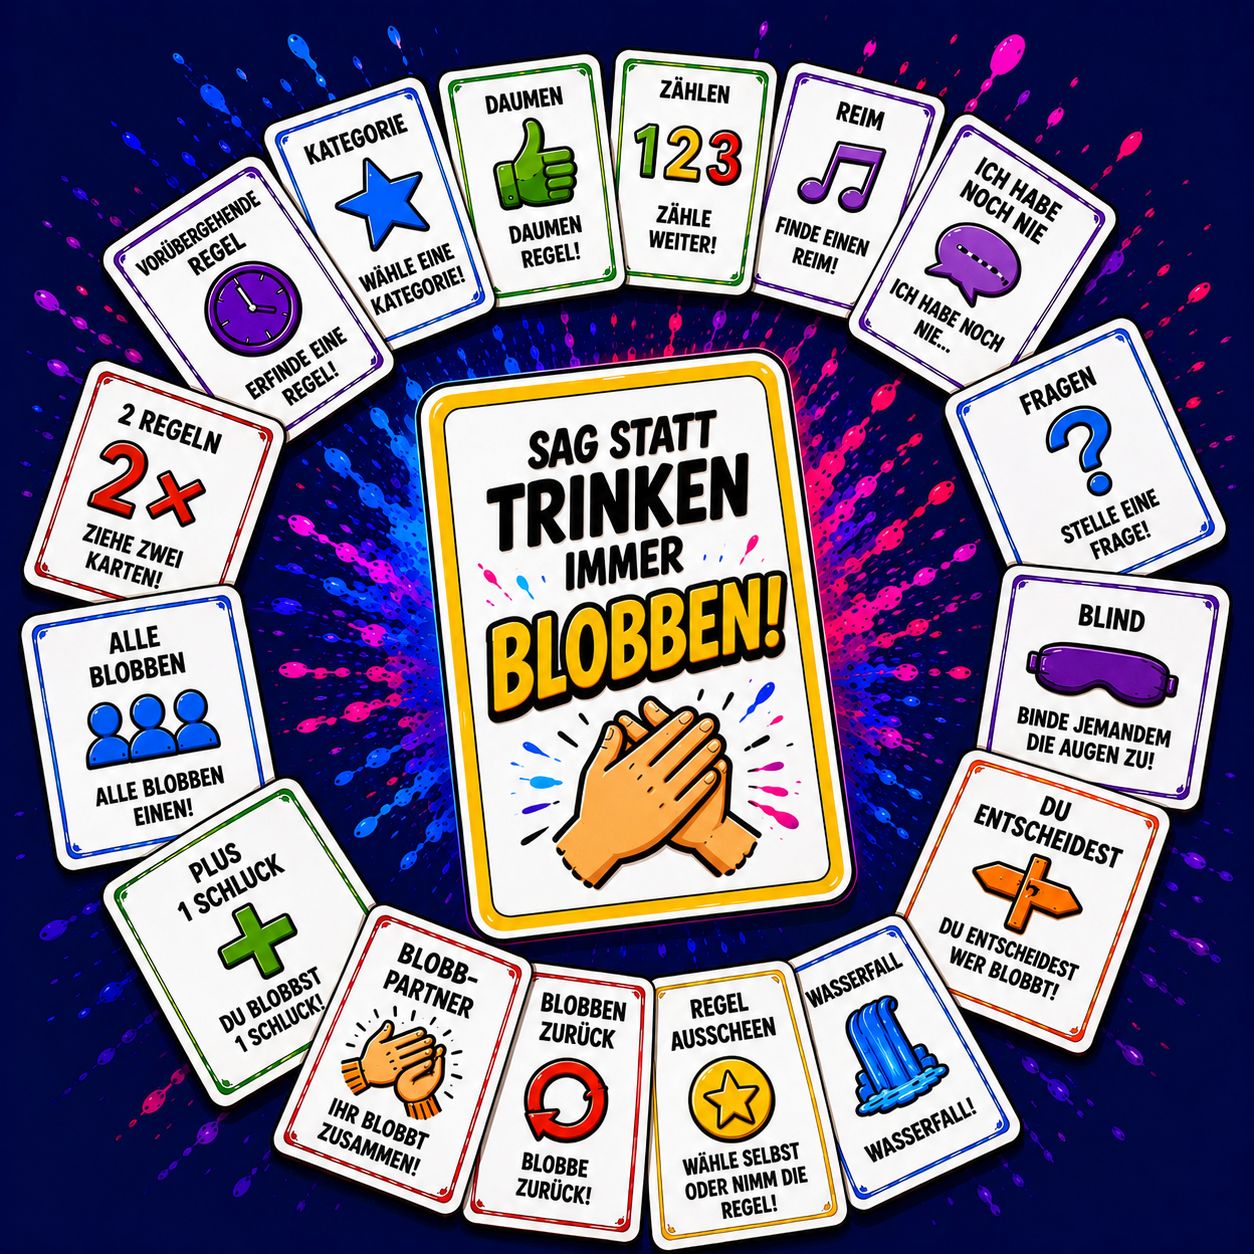
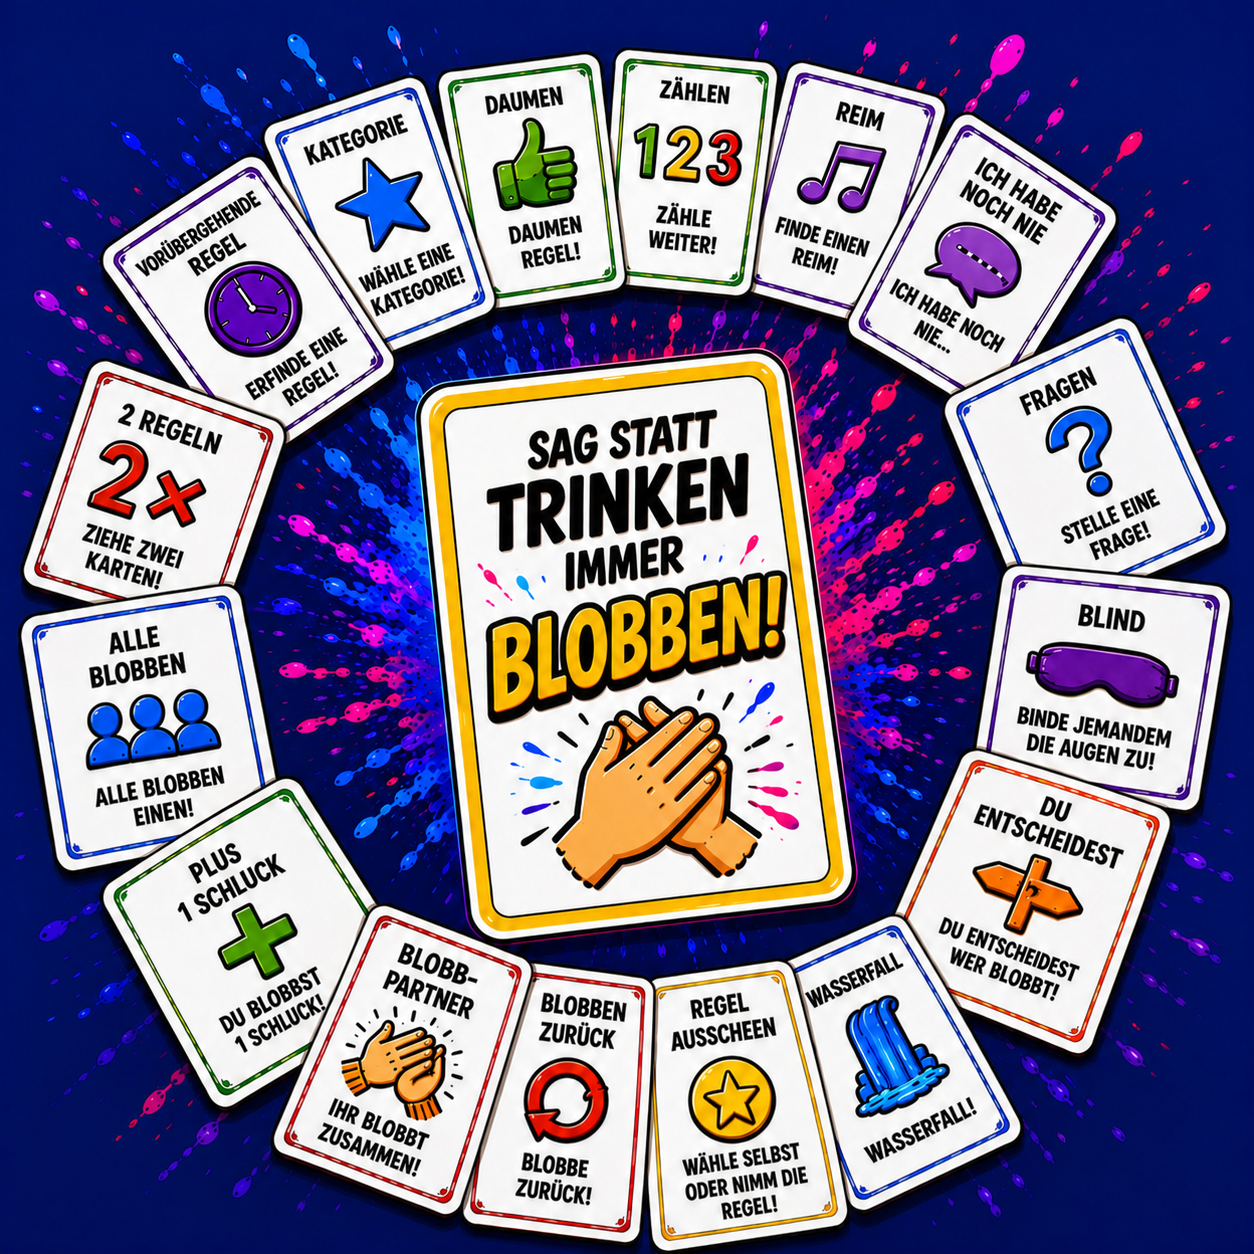
feat: refine home header and artwork

diff --git a/src/style.css b/src/style.css
@@ -14,6 +14,12 @@
   touch-action: manipulation;
 }
 
+input,
+textarea,
+select {
+  font-size: max(16px, 1rem) !important;
+}
+
 html,
 body,
 #app {
@@ -91,24 +97,34 @@ body {
 }
 
 .home-profile-button {
-  position: absolute;
+  position: relative;
   z-index: 2;
-  top: calc(clamp(18px, 4vh, 38px) + 16px);
-  right: clamp(16px, 4vw, 40px);
   display: grid;
   width: clamp(50px, 7vw, 58px);
   height: clamp(50px, 7vw, 58px);
-  padding: 0;
-  overflow: visible;
+  padding: 11px;
+  overflow: hidden;
   isolation: isolate;
   place-items: center;
-  border: 0;
-  border-radius: 0;
+  border: 1px solid rgba(255, 255, 255, .34);
+  border-radius: 18px;
   color: #fff;
-  background: transparent;
-  box-shadow: none;
+  background: rgba(17, 10, 51, .72);
+  box-shadow: inset 0 1px 0 rgba(255, 255, 255, .12), 0 0 8px rgba(255, 255, 255, .1), 0 7px 18px rgba(0, 0, 0, .2);
   cursor: pointer;
-  transition: transform 160ms ease;
+  transition: border-color 160ms ease, background 160ms ease, box-shadow 160ms ease, filter 160ms ease;
+}
+
+.home-settings-button {
+  position: absolute;
+  top: clamp(16px, 4vw, 40px);
+  left: clamp(16px, 4vw, 40px);
+}
+
+.home-user-button {
+  position: absolute;
+  top: clamp(16px, 4vw, 40px);
+  right: clamp(16px, 4vw, 40px);
 }
 
 .home-profile-button img {
@@ -118,6 +134,17 @@ body {
   transform: none;
 }
 
+.home-header-icon {
+  width: 100%;
+  height: 100%;
+  fill: none;
+  stroke: rgba(255, 255, 255, .94);
+  stroke-width: 1.8;
+  stroke-linecap: round;
+  stroke-linejoin: round;
+  filter: drop-shadow(0 0 5px rgba(255, 63, 159, .28));
+}
+
 .home-profile-button .default-profile-icon {
   width: 70%;
   height: 70%;
@@ -125,7 +152,10 @@ body {
 
 .home-profile-button:hover,
 .home-profile-button:active {
-  transform: translateY(-2px) scale(1.03);
+  border-color: rgba(255, 255, 255, .58);
+  background: rgba(29, 17, 75, .82);
+  box-shadow: inset 0 1px 0 rgba(255, 255, 255, .18), 0 0 10px rgba(255, 255, 255, .13), 0 8px 20px rgba(0, 0, 0, .24);
+  filter: brightness(1.08);
 }
 
 .home-profile-button:focus-visible {
@@ -136,9 +166,11 @@ body {
   position: relative;
   z-index: 1;
   display: grid;
-  width: min(860px, 92vw);
+  width: min(780px, 100%);
   margin-top: 0;
-  place-items: center;
+  grid-template-columns: minmax(0, 1fr) auto minmax(0, 1fr);
+  align-items: center;
+  column-gap: 12px;
   transform: translateY(16px);
 }
 
@@ -151,7 +183,11 @@ body {
     calc(100vw - clamp(16px, 4vw, 40px) - clamp(16px, 4vw, 40px) - clamp(50px, 7vw, 58px) - clamp(50px, 7vw, 58px) - 24px)
   );
   height: auto;
+  grid-column: 1 / -1;
+  grid-row: 1;
+  justify-self: center;
   object-fit: contain;
+  transform: translateX(-6px);
 }
 
 .busfahrer-button {
@@ -191,7 +227,7 @@ body {
 }
 
 .klatschen-home-button {
-  background: #01073f;
+  background: #02115d;
 }
 
 .busfahrer-button-label {
@@ -518,7 +554,7 @@ body {
 @media (max-width: 620px) {
   .home-page { padding-top: 76px; background-attachment: scroll; }
   .busfahrer-page.profile-page { background-attachment: scroll; }
-  .hero-header { width: min(100%, 430px); top: calc(clamp(18px, 4vh, 38px) - 76px); }
+  .hero-header { width: min(100%, 340px); top: calc(clamp(18px, 4vh, 38px) - 76px); }
   .game-list,
   .game-filters { width: min(100%, 340px); }
 }

diff --git a/src/main.ts b/src/main.ts
@@ -23,7 +23,6 @@ import {
   type OnlineMember,
 } from './online.ts'
 import type { Session } from '@supabase/supabase-js'
-import userButtonImage from './assets/benutzer/4c0c56d3-a7e5-4be3-81b0-fda84fd67cbf.png'
 import busfahrerGameImage from './assets/spielbild icons/91c70169-1e14-42c9-b836-6eacc3325af0.png'
 import blobbenGameImage from './assets/spielbild icons/55490394-9fa1-45b5-adba-ce8260738e69.png'
 import heroLogo from './assets/überschrift/ebe5baf7-8dca-44a0-a5bc-ba2f48425dc2.png'
@@ -85,10 +84,6 @@ let onlineUnsubscribe: (() => void) | undefined
 let pendingInviteCode: string | null = null
 let onlineNotice = ''
 let keyboardViewportCleanup: (() => void) | undefined
-
-const viewportMeta = document.querySelector<HTMLMetaElement>('meta[name="viewport"]')!
-const zoomableViewport = 'width=device-width, initial-scale=1.0, user-scalable=yes, maximum-scale=5.0'
-const resetViewport = 'width=device-width, initial-scale=1.0, user-scalable=no, maximum-scale=1.0'
 
 function updateIPadStandaloneMode() {
   const navigatorWithStandalone = navigator as Navigator & { standalone?: boolean }
@@ -319,18 +314,6 @@ async function loadAuthState() {
   renderPage()
 }
 
-function resetPinchZoom() {
-  if (!window.visualViewport || window.visualViewport.scale <= 1.01) return
-  viewportMeta.content = resetViewport
-  window.setTimeout(() => { viewportMeta.content = zoomableViewport }, 80)
-}
-
-document.addEventListener('dblclick', (event) => event.preventDefault(), { passive: false })
-document.addEventListener('touchend', (event) => {
-  if (event.touches.length === 0) resetPinchZoom()
-}, { passive: true })
-document.addEventListener('gestureend', resetPinchZoom, { passive: true })
-
 function escapeHtml(value: string) {
   return value.replaceAll('&', '&amp;').replaceAll('<', '&lt;').replaceAll('>', '&gt;').replaceAll('"', '&quot;').replaceAll("'", '&#039;')
 }
@@ -411,13 +394,17 @@ function renderPage() {
     profileEditorContext = { mode: 'primary', profileId: profileStore.activeProfileId }
     return renderProfileEditor()
   }
+  if (routeBase === '#settings') return renderSettingsPlaceholder()
   renderHome()
 }
 
 function renderHome() {
   app.innerHTML = `<main class="home-page">
-    <button class="home-profile-button" type="button" aria-label="Profil öffnen" title="Profil öffnen">
-      <img src="${userButtonImage}" alt="">
+    <button class="home-profile-button home-settings-button" type="button" aria-label="Einstellungen öffnen" title="Einstellungen öffnen">
+      <svg class="home-header-icon" aria-hidden="true" viewBox="0 0 24 24"><circle cx="12" cy="12" r="3"></circle><path d="M19.4 15a1.7 1.7 0 0 0 .34 1.88l.06.06-2.83 2.83-.06-.06a1.7 1.7 0 0 0-1.88-.34 1.7 1.7 0 0 0-1.03 1.56V21h-4v-.09A1.7 1.7 0 0 0 9 19.36a1.7 1.7 0 0 0-1.88.34l-.06.06-2.83-2.83.06-.06A1.7 1.7 0 0 0 4.63 15a1.7 1.7 0 0 0-1.55-1H3v-4h.09A1.7 1.7 0 0 0 4.64 9a1.7 1.7 0 0 0-.34-1.88l-.06-.06 2.83-2.83.06.06A1.7 1.7 0 0 0 9 4.63a1.7 1.7 0 0 0 1-1.55V3h4v.09A1.7 1.7 0 0 0 15 4.64a1.7 1.7 0 0 0 1.88-.34l.06-.06 2.83 2.83-.06.06A1.7 1.7 0 0 0 19.37 9a1.7 1.7 0 0 0 1.55 1H21v4h-.09A1.7 1.7 0 0 0 19.4 15Z"></path></svg>
+    </button>
+    <button class="home-profile-button home-user-button" type="button" aria-label="Profil öffnen" title="Profil öffnen">
+      <svg class="home-header-icon" aria-hidden="true" viewBox="0 0 24 24"><circle cx="12" cy="8" r="4"></circle><path d="M4.5 21a7.5 7.5 0 0 1 15 0"></path></svg>
     </button>
     <header class="hero-header">
       <img class="hero-logo" src="${heroLogo}" alt="BLOBBA">
@@ -461,7 +448,8 @@ function renderHome() {
       </section>
     </div>
   </main>`
-  app.querySelector<HTMLButtonElement>('.home-profile-button')!.addEventListener('click', () => { window.location.hash = 'profile' })
+  app.querySelector<HTMLButtonElement>('.home-user-button')!.addEventListener('click', () => { window.location.hash = 'profile' })
+  app.querySelector<HTMLButtonElement>('.home-settings-button')!.addEventListener('click', () => { window.location.hash = 'settings' })
   app.querySelector<HTMLButtonElement>('.blobfahrer-home-button')!.addEventListener('click', () => {
     activeGame = 'busfahrer'
     setupMode = 'offline'
@@ -510,6 +498,10 @@ function renderHome() {
   })
   updateCategoryMenu()
   updateHomeFilters()
+}
+
+function renderSettingsPlaceholder() {
+  setupShell('<div class="setup-panel"><h2>Einstellungen</h2><p class="setup-copy">Die Einstellungen werden später ergänzt.</p></div>', '', 'EINSTELLUNGEN')
 }
 
 function normalizeGameSearch(value: string) {

diff --git a/index.html b/index.html
@@ -7,7 +7,7 @@
     <link rel="apple-touch-icon" href="/app-icon.png" />
     <link rel="manifest" href="/site.webmanifest" />
     <meta name="theme-color" content="#8c52cc" />
-    <meta name="viewport" content="width=device-width, initial-scale=1.0, user-scalable=yes, maximum-scale=5.0" />
+    <meta name="viewport" content="width=device-width, initial-scale=1, viewport-fit=cover" />
     <title>GetDrunk</title>
   </head>
   <body>